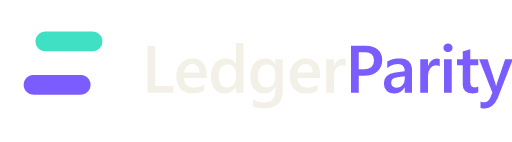
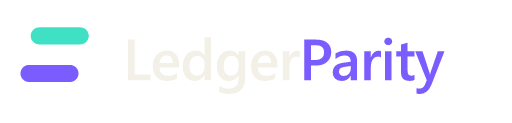
Fix organization profile image path and unclipped brand images

diff --git a/profile/README.md b/profile/README.md
@@ -1,4 +1,4 @@
-![LedgerParity banner](assets/banner.png)
+![LedgerParity banner](https://raw.githubusercontent.com/LedgerParity/.github/main/assets/banner.png)
 
 # LedgerParity
 
@@ -31,7 +31,7 @@ replayable.
 | [ledger-parity-cli](https://github.com/LedgerParity/ledger-parity-cli) | Runnable operator workflow: configure → reconcile → capture replayable evidence → verify byte-identical offline replays. Includes dashboard and report verification. |
 | [-ledger-parity-contract](https://github.com/LedgerParity/-ledger-parity-contract) | Owner-authorized report hash registration; synthetic Protocol 28 testnet validation and a read-only lifetime monitor. Hash registration does not prove report correctness. |
 
-Download [v0.3.1-preview](https://github.com/LedgerParity/ledger-parity-cli/releases/tag/v0.3.1-preview) for Windows, Linux or macOS, including checksums and the offline dashboard.
+Download [v0.3.2-preview](https://github.com/LedgerParity/ledger-parity-cli/releases/tag/v0.3.2-preview) for Windows, Linux or macOS, including checksums and the offline dashboard.
 
 ## Try it
 
